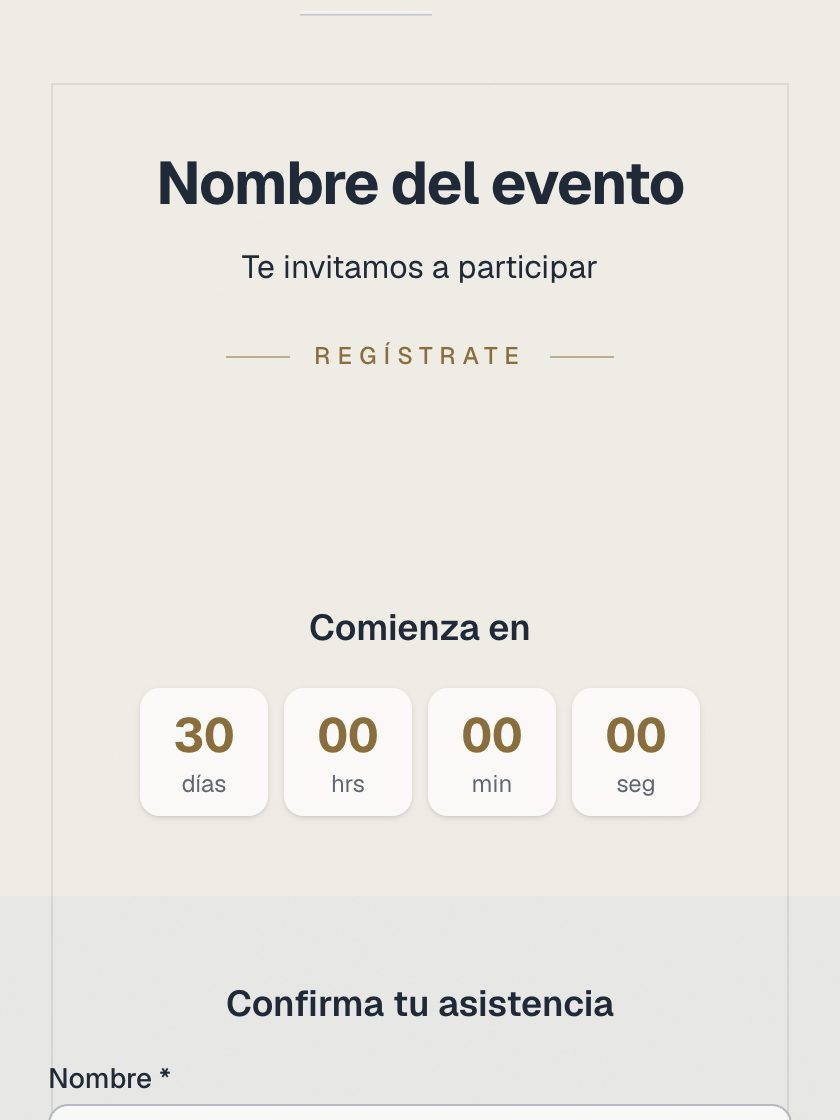
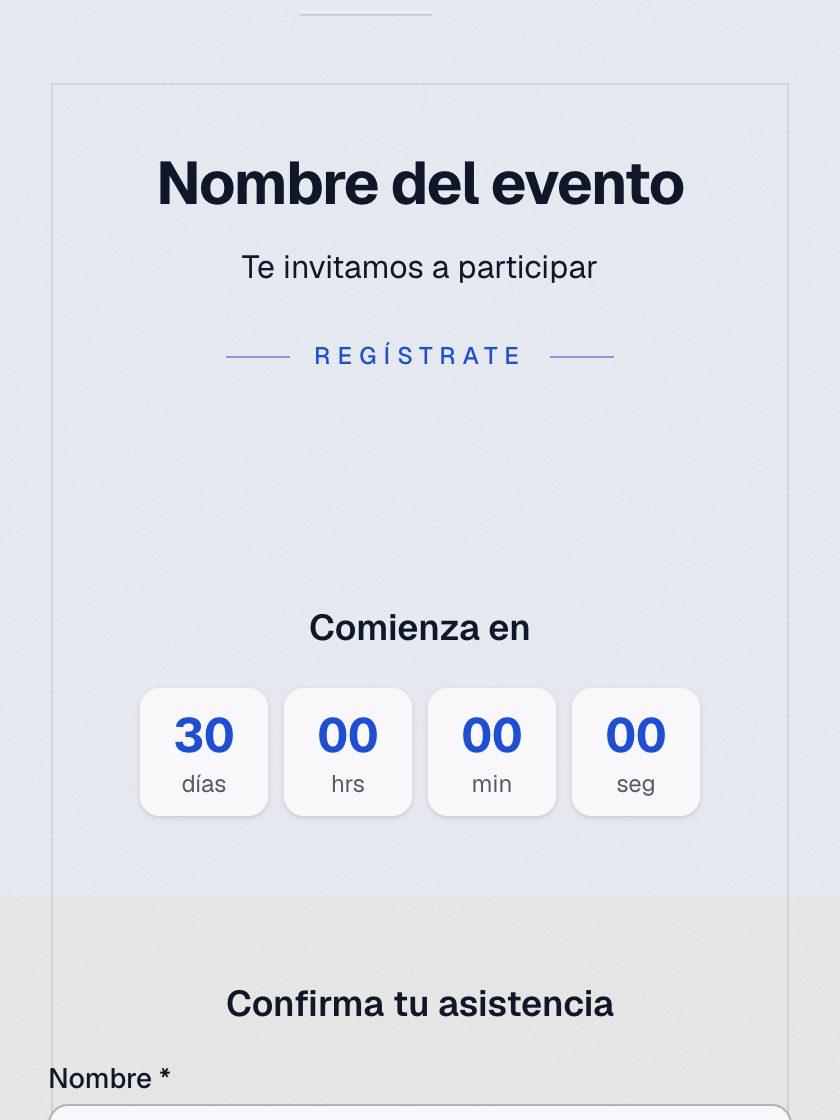
chore(catalogo): miniaturas de las cinco paletas rescatadas
Verificado contra la BD tras la 0046: las cinco con su `colors` anidado, cero
residuo en la raiz, y en TODO el catalogo 0 plantillas sin paleta efectiva y 0
con colores sueltos.

Miradas: cada una muestra ya SU color —azul cielo, dorado, carmin, azul
corporativo y magenta—. Antes las cinco se dibujaban en el dorado del tema por
defecto.

REVISION_MINIATURAS -> 202609092135.

diff --git a/src/lib/invitations/template-preview.ts b/src/lib/invitations/template-preview.ts
@@ -67,4 +67,4 @@ export const ESCALA_CAPTURA = 2;
  * optimizador y la del navegador, y evita tener que renombrar 50 archivos o
  * volver a escribir 50 URLs en la BD en cada regeneración.
  */
-export const REVISION_MINIATURAS = "202609092121";
+export const REVISION_MINIATURAS = "202609092135";
